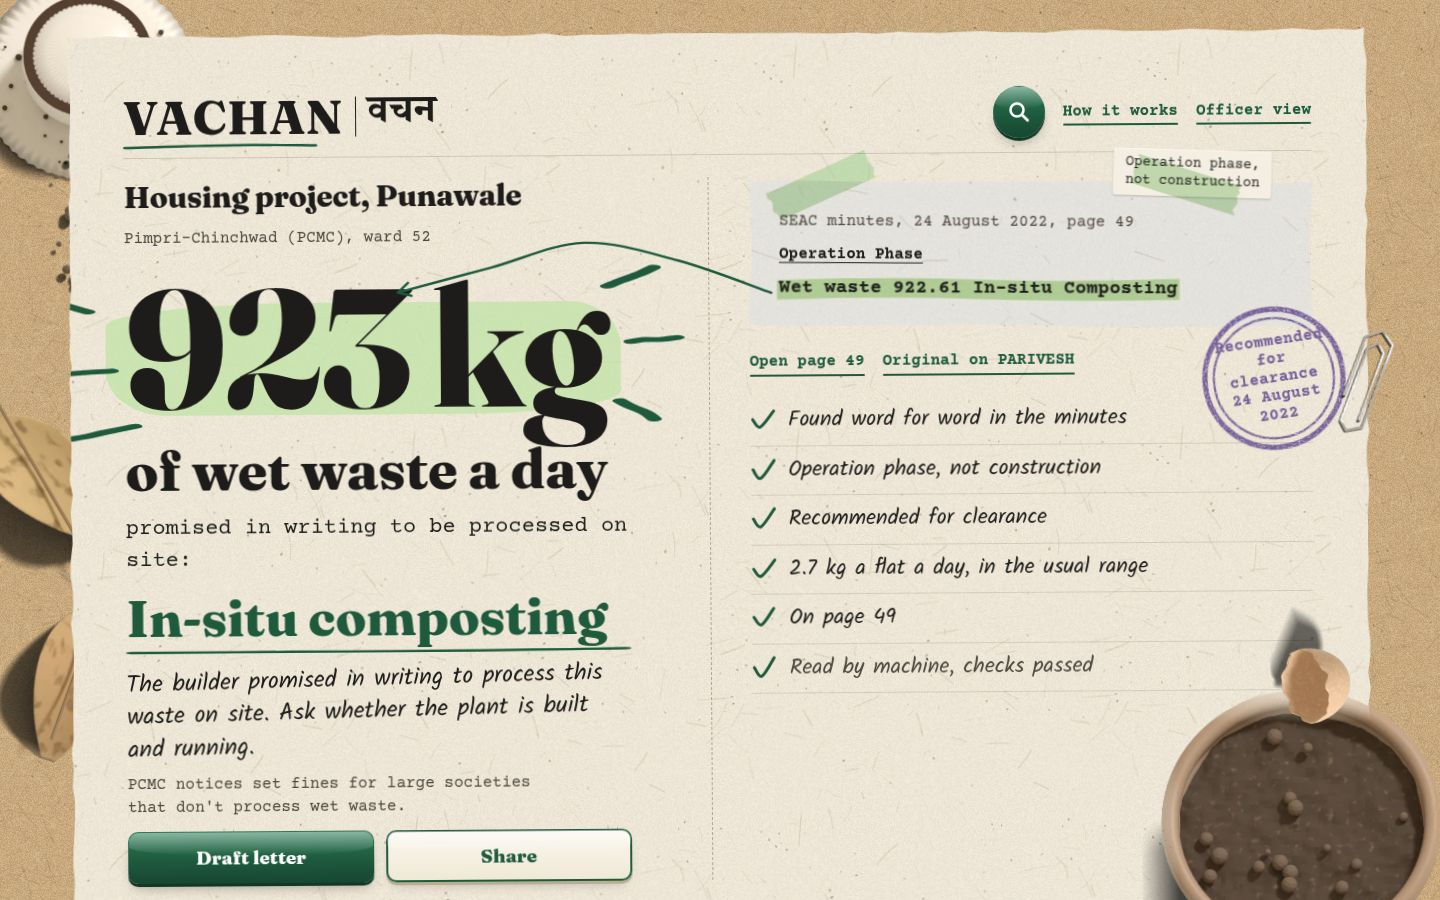
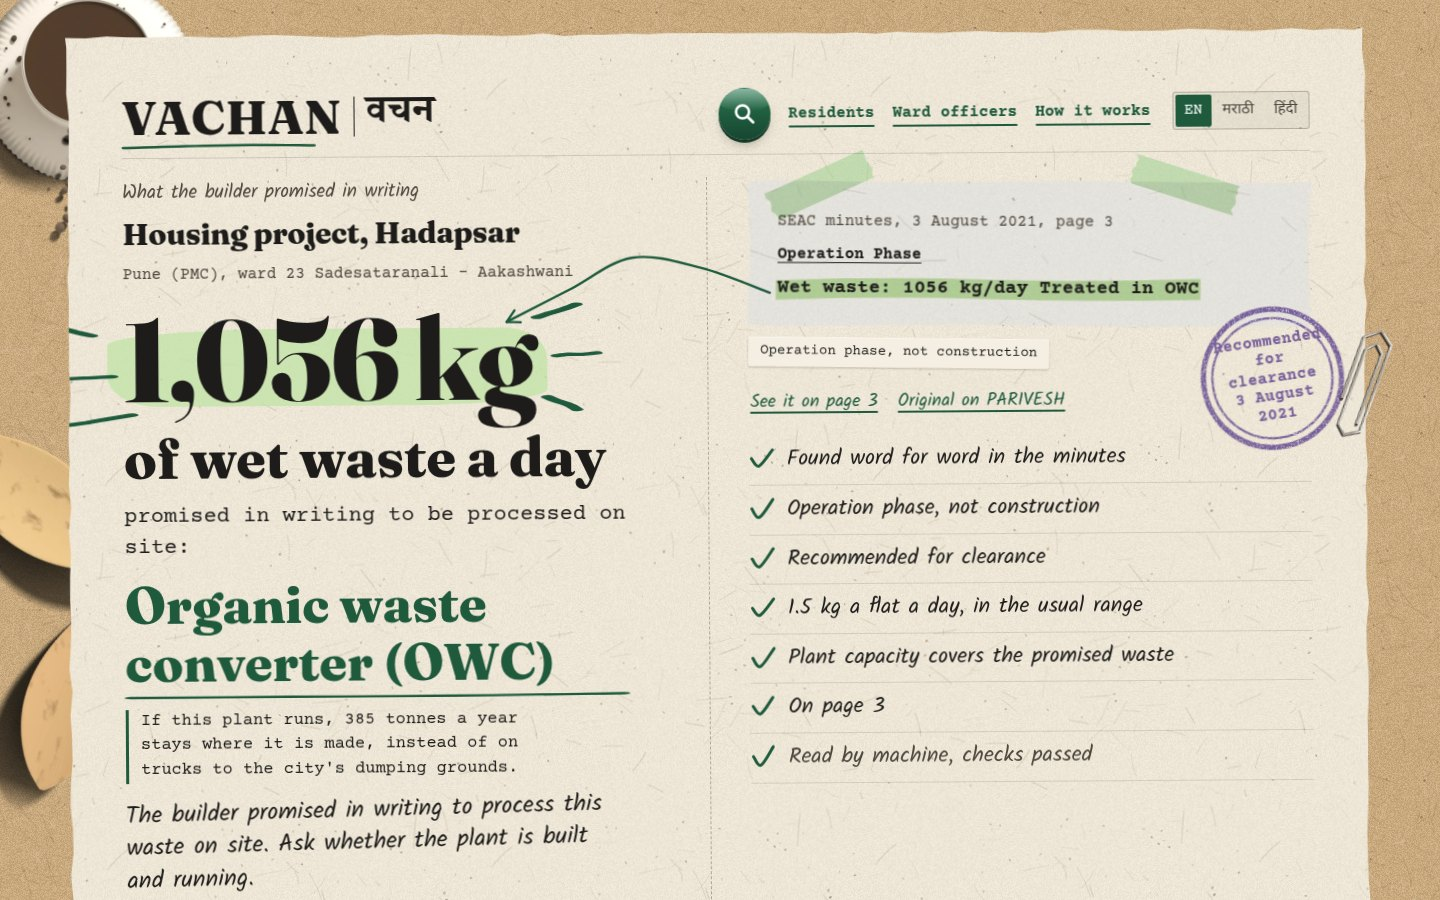
README for judges: try-it links, video timestamps per AWS service, Textract and Guardrails, team split, learnings, AWS feedback, AI tools and credits; fresh screenshots from the live site

diff --git a/README.md b/README.md
@@ -1,13 +1,25 @@
 # VACHAN (वचन, "promise")
-**Gets wet waste processed at source.** Large housing projects in Pune promised the government, in writing, to process their own wet waste on site. VACHAN reads those promises from public committee minutes with AWS, and shows any resident, buyer or ward officer the promise and the exact page it is written on.
+**Gets wet waste processed at source.** Large housing projects in Pune promised the government, in writing, to process their own wet waste on site. VACHAN reads those promises from public committee minutes with AWS, and shows any resident, buyer or ward officer the promise, the exact page it is written on, and a letter that asks for the plant to run.
 
-**Live:** https://main.d36c2lel7ok0qn.amplifyapp.com · no sign-in · WeMakeDevs x AWS Environmental Hacks 2026, Waste & Energy track
+**Video (3 min):** VIDEO_LINK · **Live:** https://main.d36c2lel7ok0qn.amplifyapp.com (no sign-in) · WeMakeDevs x AWS Environmental Hacks 2026, Waste & Energy track
 
-![A promise card: 923 kg of wet waste a day, promised in writing, with the highlighted line from the minutes and page 49](assets/card.jpg)
+![A promise card: 1,056 kg of wet waste a day, promised in writing to be treated in an organic waste converter, with the quoted line from the minutes, page 3, and the checks it passed](assets/card.jpg)
+
+## Try it in 30 seconds
+- [A promise near Seasons Mall, Hadapsar](https://main.d36c2lel7ok0qn.amplifyapp.com/p/sia-mh-mis-213829-2021): 1,056 kg of wet waste a day. Tap "See it on page 3" to open the government PDF with the line highlighted, then "Ask for the plant to run".
+- [The same card in Marathi](https://main.d36c2lel7ok0qn.amplifyapp.com/p/sia-mh-mis-213829-2021?lang=mr). English, मराठी and हिंदी work on every screen and in the letter.
+- [A record the machine is not sure about](https://main.d36c2lel7ok0qn.amplifyapp.com/p/sia-mh-infra2-46702): the model read 12,50,000 kg a day. Plain code could not find that figure in the minutes, so the card says a person must check it and offers no letter.
+- [A ward officer's check-first list, PCMC ward 52](https://main.d36c2lel7ok0qn.amplifyapp.com/officer?ward=52): the largest written promises first, ready to print.
+
+<p>
+<img src="assets/card-phone.jpg" width="250" alt="The promise card on a phone, with the Ask for the plant to run button">
+<img src="assets/pdf-page.jpg" width="250" alt="Page 3 of the minutes with the wet-waste line highlighted">
+<img src="assets/review-phone.jpg" width="250" alt="A record in review: the number in pencil and the reason it is held">
+</p>
 
 ## The problem
-- Pimpri-Chinchwad generates about 1,500 t of waste a day and processes about 700. In June 2026 it told large housing societies to compost their own wet waste or face fines.
-- Pune (PMC) says housing societies and malls send about 300 t of wet waste a day to its plants, and wants that cut.
+- Pune (PMC) says housing societies and malls send about 300 t of wet waste a day to its plants, and wants that cut ([The Bridge Chronicle, 26 Aug 2026](https://www.thebridgechronicle.com/pune/punes-wet-waste-crisis-deepens-as-processing-capacity-falls-short-agn97)). In Nov 2025 it said 400–500 society plants "may be non-operational" ([Pune Pulse](https://www.mypunepulse.com/?p=178649)).
+- Pimpri-Chinchwad (PCMC) generates about 1,500 t of waste a day and processes about 700. In June 2026 it told large housing societies to process their own wet waste or face fines ([Punekar News](https://www.punekarnews.in/pcmcs-major-decision-wet-waste-from-large-housing-societies-will-not-be-collected-from-july-1/)).
 - To get environmental clearance, every large project told the State Expert Appraisal Committee (SEAC) how much wet waste it would make and how it would process it on site. Those promises sit in more than a thousand public PDFs that nobody reads.
 
 ## Who uses it, and what changes
@@ -17,51 +29,62 @@
 | Flat buyer or renter | "What am I signing up for?" | The written promise and one plain question to ask the builder |
 | PCMC ward officer | "Whom do I check first this week?" | A list ranked by promised wet waste, never a verdict, plus a review queue |
 
-## Proof numbers (run of 10 Oct 2026, 04:20 UTC)
+## Proof numbers (run of 11 Oct 2026, 02:00 IST)
 - **1,027** SEAC minutes PDFs read; **1,214** Pune project sites (PMC + PCMC).
 - **735.6 t of wet waste a day** promised in writing (PMC 421.8, PCMC 313.7), counting only the **783** projects the committee recommended and that passed every check. **776** of those promise on-site processing.
-- **829 of 829** published quotes re-checked against the live government PDF after the run.
+- **829 of 829** published quotes re-checked against the live government PDF after the run, and each one located on its page.
 - **385** records wait for a person to check them. The site says so on each one.
+- The full backfill read 1,024 PDFs in 43 minutes with 4 parallel workers. 15 files failed inside the 10 % failure budget, and the run finished.
+- The whole event used about **$10** of AWS, almost all of it Bedrock.
 
-Every number here comes from [`stats.json`](https://d18hjofgs77fd1.cloudfront.net/data/stats.json), which the nightly run publishes and CI checks on every push.
+Every number here comes from [`stats.json`](https://d18hjofgs77fd1.cloudfront.net/data/stats.json), which each run publishes and CI checks on every push.
 
 ## How we used AWS
 | Service | Job | Why this service | In the video |
 |---|---|---|---|
-| Amazon EventBridge | Starts the pipeline every night at 02:00 IST | New minutes arrive weekly | Schedule rule |
-| AWS Lambda (container image) | Crawl PARIVESH, read each PDF (`pdftotext`), split it into agenda items, publish, prove | One image, five small handlers | Function list |
-| Amazon S3 + Amazon CloudFront | Mirror of every source PDF (by SHA-256) and the JSON the website reads | PARIVESH has broken TLS and partly fails outside India; judges must still open the page | "Open page 49" |
-| AWS Step Functions (Distributed Map) | Reads about 1,000 PDFs in parallel with retries and a failure budget | Scale, plus a run graph we can show | The run graph |
-| Amazon Bedrock (Amazon Nova Pro) | Reads one project at a time into a fixed schema; drafts the letter | Telling operation-phase waste from construction-phase waste needs reading, not regex | Letter drafting |
-| Amazon DynamoDB | One row per proposal per minutes PDF | Simple key writes from parallel workers | |
-| Amazon Location Service (Places) | Address search for "promises near me" | Residents know their address, not survey numbers | "Seasons Mall, Hadapsar" |
-| AWS Amplify Hosting | Hosts the website | Live link on an AWS domain | The live URL |
-| AWS Budgets + IAM | Alerts at $30, $48, $60; at $50 an automatic deny policy stops Bedrock and new runs | A public, sign-in-free app must not run up a bill | |
-| AWS CDK (CloudFormation) | All of the above as one stack | Repeatable setup | `cdk deploy` |
+| Amazon EventBridge | Starts the pipeline every night at 02:00 IST | New minutes arrive weekly | 1:38 |
+| AWS Step Functions (Distributed Map) | Reads about 1,000 PDFs in parallel with retries and a failure budget | Scale, plus a run graph we can show | 1:38, 1:55 |
+| AWS Lambda (container image) | Crawl PARIVESH, read each PDF (`pdftotext`), split it into agenda items, publish, prove, draft letters | One image, five small handlers | 1:45 |
+| Amazon S3 + Amazon CloudFront | Mirror of every source PDF (named by SHA-256) and the JSON the website reads | PARIVESH has broken TLS and partly fails outside India; judges must still open the page | 1:45, 2:21 |
+| Amazon Textract | Reads minutes that are photographs of paper, where `pdftotext` finds no text | Without it, those meetings drop out silently | 1:55 |
+| Amazon Bedrock (Amazon Nova Pro) | Reads one project at a time into a fixed schema; drafts the letter | Telling operation-phase waste from construction-phase waste needs reading, not regex | 2:03, 1:10 |
+| Amazon Bedrock Guardrails | Stops any letter draft that uses one of 17 accusing words or phrases | A promise is not proof; a public letter tool must never accuse | 1:31 |
+| Amazon DynamoDB | One row per proposal per minutes PDF | Simple key writes from parallel workers | 2:21 |
+| Amazon Location Service (Places) | Address search for "promises near me" | Residents know their address, not survey numbers | 0:41 |
+| AWS Amplify Hosting | Hosts the website | A live link on an AWS domain | 2:38 |
+| AWS CDK (CloudFormation) + IAM | All of the above as one stack; GitHub Actions deploys over OIDC with no stored AWS keys | Repeatable setup, no secrets in the repo | 2:38 |
+| AWS Budgets + IAM | Alerts at $30, $48 and $60; at $50 an automatic deny policy stops Bedrock, Textract and new runs | A public, sign-in-free app must not run up a bill | |
 
-**The model only reads. Plain code decides.** After Bedrock returns a record, deterministic checks run: the figure must appear word for word on a "Wet waste" line, it must be the operation-phase figure (never the smaller construction-phase one), wet waste per flat must be 0.5 to 3 kg, and the committee decision must be readable. Code, not the model, picks the quoted line and the page. Any failed check puts the record in review, and the card shows the reason.
+**The model only reads. Plain code decides.** After Bedrock returns a record, deterministic checks run:
+- the figure must appear word for word on a "Wet waste" line;
+- it must be the operation-phase figure, never the smaller construction-phase one;
+- wet waste per flat must be 0.5 to 3 kg;
+- the stated plant capacity must cover the promised waste;
+- the committee decision must be readable.
+
+Code, not the model, picks the quoted line and the page. Any failed check puts the record in review, and the card shows the reason.
 
 ## Architecture
 ```mermaid
 flowchart LR
-  EB[EventBridge nightly] --> SF[Step Functions]
+  EB[EventBridge 02:00 IST] --> SF[Step Functions]
   SF --> C[Lambda crawl] -->|PARIVESH index| S3[(S3: PDFs by SHA-256)]
   SF --> M[Distributed Map: Lambda per PDF]
-  M -->|pdftotext, split, PMC/PCMC ward| BR[Bedrock Nova Pro]
+  M -->|pdftotext, or Textract if scanned| BR[Bedrock Nova Pro]
   BR --> CHK[Plain-code checks] --> DDB[(DynamoDB)]
   SF --> PUB[Lambda publish: static JSON] --> S3
   SF --> PR[Lambda proof: re-fetch PDF, hash, find quote on page]
   S3 --> CF[CloudFront] --> WEB[Amplify: website]
   WEB --> LOC[Amazon Location Places]
-  WEB --> LET[Lambda URL: letter via Bedrock, capped]
+  WEB --> LET[Lambda URL: letter via Bedrock + Guardrail, capped]
+  GH[GitHub Actions, OIDC] --> WEB
 ```
 
 ## What it does when unsure
-- A record that fails a check is shown in pencil with a rust stamp, "A person must check this", and the reason, word for word. It has no "Draft letter" button, so no letter quotes an unchecked number.
-- A letter that contains an accusing word is not shown. The letter Lambda is capped per day and to two at a time.
-- If a PDF cannot be read, the run skips it and continues (10 % failure budget). If Bedrock throttles, the worker retries with adaptive backoff.
-
-![A record in review: number in pencil, stamp, reason](assets/review-phone.jpg)
+- A record that fails a check is shown in pencil with a rust stamp, "A person must check this", and the reason, word for word. It has no letter button, so no letter quotes an unchecked number.
+- The Bedrock Guardrail stops any draft with an accusing word. The card and its page still stand.
+- The letter Lambda is capped per day and runs two at a time.
+- If a PDF cannot be read, the run skips it and continues (10 % failure budget). If Bedrock throttles, the worker retries with adaptive backoff. If PARIVESH is down, the crawl retries.
 
 ## Run it yourself
 Needs: AWS account (ap-south-1), Node 22+, Docker, Python 3.12, `uv`.
@@ -72,22 +95,61 @@ cd infra && npm install && npx cdk bootstrap && npx cdk deploy
 aws stepfunctions start-execution --state-machine-arn <PipelineArn> --input '{"all": true}'
 # 3. Website: copy web/.env.example to web/.env and fill it from the CDK outputs, then
 cd ../web && npm install && npm run dev        # local
-./deploy.sh                                     # Amplify Hosting
+./deploy.sh                                     # manual deploy to Amplify Hosting
 # Tests
 cd ../pipeline && uvx --with boto3 pytest -q
 ```
-Desk props are modelled in Blender: `blender -b -P props/render_props.py -- <out>` then `python props/to_webp.py <out> web/public/props`.
+On every push, GitHub Actions runs the pipeline tests (38, including a table of real minutes lines for the status rules), the web type check and build, and a check of the published data. A push to `main` then deploys to Amplify.
+
+All code in this repo was written during the event (8–11 Oct 2026). Before kickoff we only checked that the minutes were public.
 
 ## What is not built
 - We do not know whether a plant runs today. We show what was promised in writing.
 - Minutes before 2019 have no public index, and buildings below the clearance size are not in these minutes.
-- One damaged PDF (meeting 47956) is skipped; scanned minutes are not yet sent to OCR.
+- 12 of the 1,027 minutes are scans. The Textract step for them is built and deployed, but they have not been through a full run yet, so their projects are not in the totals.
+- One damaged PDF (meeting 47956) is skipped.
+- No hand-labelled accuracy figure yet. The status rules are tested against real lines from the minutes.
+
+## What's next
+- Sit with a PCMC or PMC ward officer to test the check-first order, and record what each inspection finds next to the promise.
+- Hand-label about 40 records to publish a field-by-field accuracy figure.
+- The crawler already reads every Maharashtra SEAC minutes PDF. Adding another city needs its ward map.
+
+## Who did what
+VACHAN has three parts: what to build, how it looks, and how it runs. Each of us owned one.
+
+- **Dushyant Singh** ([@devvedub07](https://github.com/devvedub07)): **the problem and the look.** Chose the problem we took on. Studied the reference sites, wrote the design spec and the screen-by-screen concepts (the recycled-paper sheet on a desk, the highlighted quote, the compost pot), and chose the concept images the site is built from. Tested the live site on phones and laptops and reported every break.
+- **Shreya Bableshwar** ([@shreyab09](https://github.com/shreyab09)): **the product and its outcome.** Defined what VACHAN must do for each person and what should change afterwards: a letter that asks for the plant to run, and a check-first list for the ward. Her review of our plan changed the product in two places. We never say a society "must" run a plant, because the 2026 rules allow certificates instead. And the pipeline flags any plant whose stated capacity is below the promised waste.
+- **Siddhant Vishnu** ([@SidTheKid-dotcom](https://github.com/SidTheKid-dotcom)): **the build.** The AWS stack and the pipeline, the website, CI and deployment, and the video, with Claude Code as a coding partner. He lives in Hadapsar, next to the Seasons Mall in the demo.
+
+## What we learned
+- **A promise is not proof.** The minutes show what a builder promised in writing, not whether a plant was built or runs. We say "promised in writing" and "check first", never that anyone failed.
+- **The hard part is one line.** Each project lists wet waste twice: during construction and after people move in. Only the second is the promise. A regex cannot tell them apart reliably, so Bedrock reads the block and plain code checks that the quoted line, the number and the page are really there.
+- **Measure before you claim.** A first sample of 25 PDFs suggested 40 % were scanned images. The full corpus had 12 scans in 1,027. Our first total (over 350 t a day for PCMC alone) also fell once we dropped deferred proposals and counted each site once.
+- **Data helps only when someone can act on it.** A total of 735 tonnes changes nothing. One building's promise, its page and a ready letter can.
+- **Government sources fail, so keep a copy.** PARIVESH has broken TLS and outages. Mirroring every PDF on S3 and CloudFront is what lets anyone open the exact page.
+- **Showing doubt builds trust.** 385 records say "A person must check this" with the reason. That turned out to be a feature, not an embarrassment.
+- **People arrive from WhatsApp on a phone.** The number, the method and the page have to lead; everything else can wait.
+
+## Our feedback on AWS
+- **Amazon Bedrock model access:** Anthropic models needed a use-case form on our new account, so we used Amazon Nova Pro. On a 25-item sample it matched our plain-code figure on 23 of 24 items. A clearer note at sign-up about which models need a form would have saved us time at kickoff.
+- **Bedrock Guardrails:** the prompt-attack filter read our own instructions as an injection and refused every letter draft. Guarding only the model's output fixed it. A worked example that separates the system prompt from user input would help.
+- **Nova Pro request quota:** 50 requests a minute shaped the whole run; we capped the Distributed Map at 4 parallel workers. Seeing that limit next to the model in the console, before the first throttle, would help.
+- **Step Functions Distributed Map:** retries and a failure budget let a run over about 1,000 PDFs finish when a few were damaged, and the run graph is the clearest way to show the pipeline to someone else.
+- **GitHub Actions to Amplify over OIDC:** no stored keys is the right default, but getting the role's trust condition to match the token's subject claim took a debug step that printed the claims. An example for the GitHub subject format would have saved that.
+- **AWS Budgets:** alerts were easy. Making spend automatically stop Bedrock, Textract and new runs at $50 needed a budget action plus a deny policy; a ready-made "stop these services" option would suit hackathons and public demos.
 
 ## AI tools used
-Claude Code (coding partner), ChatGPT image generation (screen concepts only, not shipped except the link-preview image), Amazon Bedrock Nova Pro (reading the minutes, drafting letters).
+- **Claude Code:** coding partner for the pipeline, infrastructure, website and the video's animated scenes.
+- **ChatGPT and Codex image generation:** screen concepts only. Not shipped, except the link-preview image.
+- **Amazon Bedrock (Nova Pro):** reads the minutes and drafts the letters.
+- **ElevenLabs:** the narration voice in the video.
 
 ## Credits and licences
+- Code: MIT (see `LICENSE`).
 - Minutes: PARIVESH, Ministry of Environment, Forest and Climate Change, Government of India (public documents).
 - Ward boundaries: DataMeet Municipal Spatial Data, CC BY-SA 2.5 IN (PMC 2022 wards also MIT via answerquest/pune-2022-wards).
+- Libraries: PDF.js (Apache-2.0), React and React Router (MIT). Poppler (GPL) runs as a command-line tool inside the Lambda image.
+- News headlines in the video: The Bridge Chronicle and Punekar News, credited on screen.
 - Fonts: Fraunces, Courier Prime, Kalam, Noto Serif Devanagari (SIL Open Font License, via Google Fonts).
-- Desk props: modelled and rendered in Blender by the team.
+- Desk props: modelled and rendered in Blender (`props/`).
